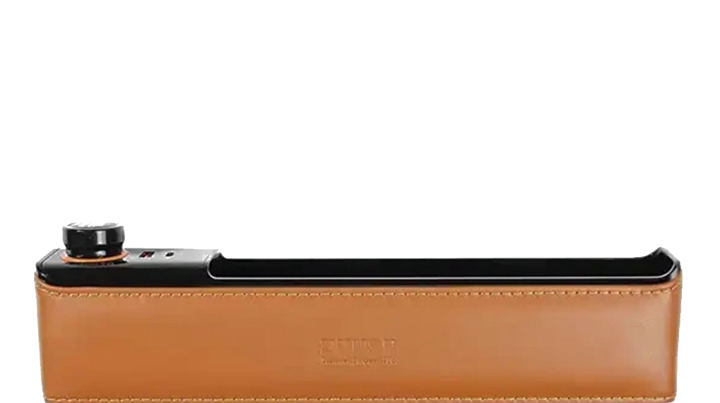
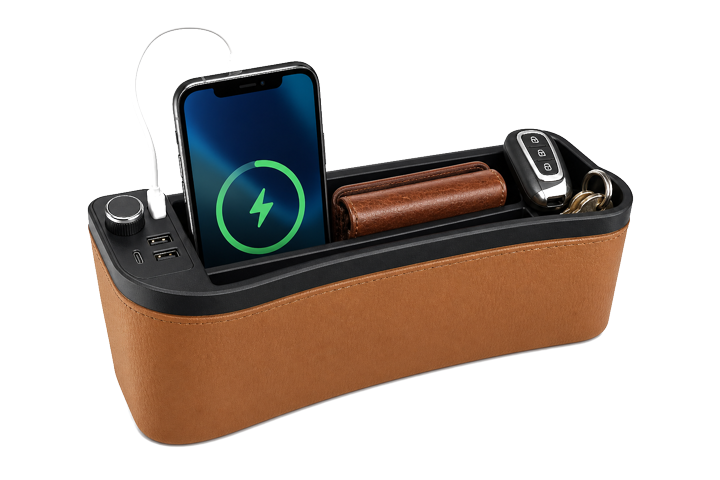
feat: lifestyle product shot with phone wallet and keys
Replace plain product cutout with a realistic in-use image showing charging phone, wallet, and car keys.

diff --git a/p/zhuse/index.html b/p/zhuse/index.html
@@ -856,12 +856,12 @@
     <div class="order-stack">
       <figure class="product-showcase">
         <picture>
-          <source srcset="assets/product-wide.webp?v=20260708flush" type="image/webp" />
+          <source srcset="assets/product-wide.webp?v=20260708life" type="image/webp" />
           <img
-            src="assets/product-wide.png?v=20260708flush"
-            alt="منظم مقعد السيارة ZHUSE — تخزين وشحن"
+            src="assets/product-wide.png?v=20260708life"
+            alt="منظم ZHUSE — جوال يشحن ومحفظة ومفاتيح"
             width="720"
-            height="403"
+            height="480"
             decoding="async" />
         </picture>
       </figure>
@@ -1059,9 +1059,9 @@
   }
 })();
 </script>
-<script src="../../js/gulfcod-zhuse-config.js?v=20260708up" defer></script>
-<script src="../../js/traffic-source.js?v=20260708up" defer></script>
-<script src="../../js/facebook-pixel.js?v=20260708up" defer></script>
-<script src="../../js/main.js?v=20260708up" defer></script>
+<script src="../../js/gulfcod-zhuse-config.js?v=20260708life" defer></script>
+<script src="../../js/traffic-source.js?v=20260708life" defer></script>
+<script src="../../js/facebook-pixel.js?v=20260708life" defer></script>
+<script src="../../js/main.js?v=20260708life" defer></script>
 </body>
 </html>
